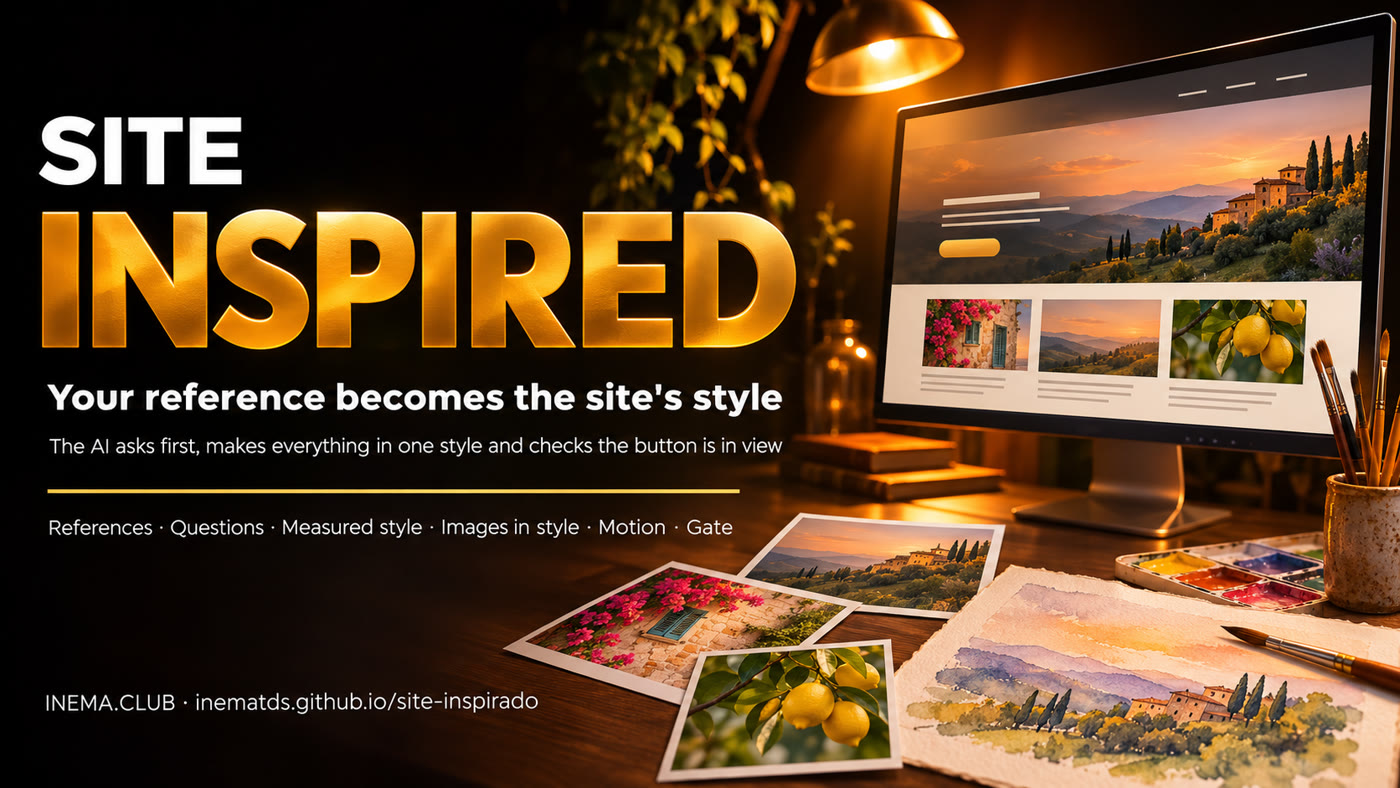
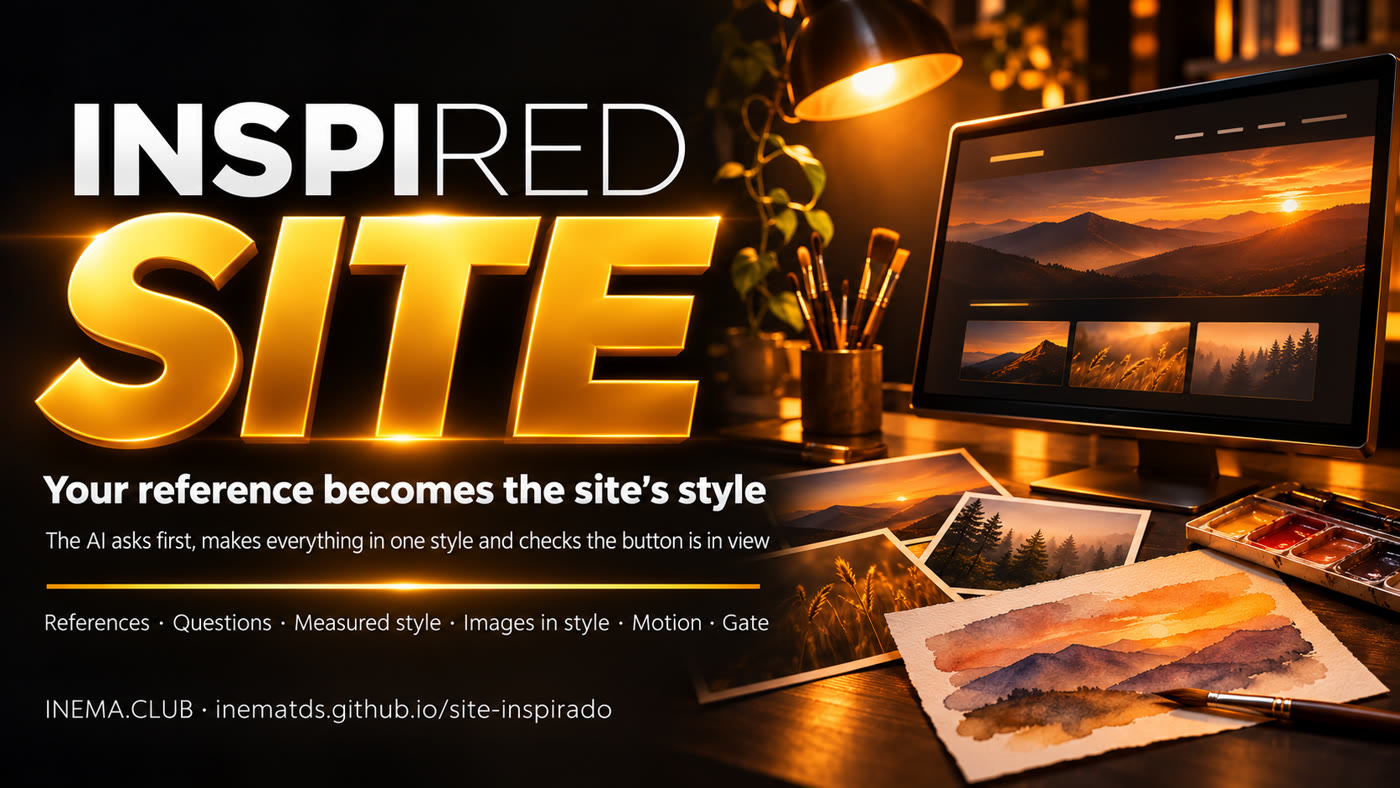
site-inspirado v1: imagens pelo Codex, pilotos completos, guia PT/EN/ES, Pages

diff --git a/pilotos/padaria/index.html b/pilotos/padaria/index.html
@@ -95,6 +95,8 @@
   @media (max-width:760px){
     .barra{display:flex;position:fixed;left:12px;right:12px;bottom:12px;z-index:40}
     .barra .btn{flex:1;justify-content:center;box-shadow:0 10px 30px rgba(0,0,0,.5)}
+    .barra{transition:opacity .25s,transform .25s}
+    .barra.fora{opacity:0;transform:translateY(20px);pointer-events:none}
     footer{padding-bottom:96px!important}
   }
   footer{padding:40px 0;text-align:center;font-size:14px;color:var(--creme2);border-top:1px solid var(--linha)}
@@ -190,5 +192,13 @@
 </footer>
 
 <script src="../../skill/site-inspirado/runtime/movimento.js"></script>
+<script>
+  // a barra fixa só aparece quando o botão do topo sai da tela (nunca dois botões iguais à vista)
+  (function(){
+    var topo=document.querySelector('.hero [data-cta]'), barra=document.querySelector('.barra');
+    if(!topo||!barra||!('IntersectionObserver' in window)) return;
+    new IntersectionObserver(function(e){ barra.classList.toggle('fora', e[0].isIntersecting); }).observe(topo);
+  })();
+</script>
 </body>
 </html>

diff --git a/README.es.md b/README.es.md
@@ -1,8 +1,16 @@
 # site-inspirado
 
+[![site-inspirado](guia/assets/banner-es.jpg)](https://inematds.github.io/site-inspirado/guia/es/)
+
+**🇧🇷 [Português](README.md) · 🇺🇸 [English](README.en.md) · 🇪🇸 [Español](README.es.md)**
+
+## Qué es
+
+site-inspirado es un kit con una skill para Claude Code que crea sitios que no parecen «hechos por IA». Entregas imágenes de referencia (de Pinterest, de la invitación ya impresa o de la foto de la tienda) y la IA hace preguntas e investiga antes de generar cualquier cosa. Después mide el estilo de esas imágenes, genera las imágenes del sitio con ese mismo estilo mediante Codex y arma la página con transiciones. Al final, una prueba automática comprueba si aparece el botón principal y si la página funciona en el celular. Para usarlo, necesitas Claude Code, Codex con tu suscripción iniciada, Python y Node.
+
 **Un sitio que no parece “hecho por IA”.** Entregas de 2 a 5 imágenes de referencia (de Pinterest, la invitación que ya imprimiste o una foto de la tienda). La IA pregunta e investiga antes de generar. Todas las imágenes siguen el mismo estilo de las referencias, la página incorpora transiciones en código y una prueba comprueba si el visitante todavía encuentra el botón antes de publicar.
 
-[Guía completa](https://inematds.github.io/site-inspirado/guia/es/) · Português: [README.md](README.md) · English: [README.en.md](README.en.md)
+[Guía completa](https://inematds.github.io/site-inspirado/guia/es/)
 
 Pilotos en línea:
 - **Evento** (visual, boda ficticia en acuarela): https://inematds.github.io/site-inspirado/pilotos/evento/

diff --git a/README.en.md b/README.en.md
@@ -1,11 +1,19 @@
 # site-inspirado
 
+[![site-inspirado](guia/assets/banner-en.jpg)](https://inematds.github.io/site-inspirado/guia/en/)
+
+**🇧🇷 [Português](README.md) · 🇺🇸 [English](README.en.md) · 🇪🇸 [Español](README.es.md)**
+
+## What it is
+
+site-inspirado is a kit with a skill for Claude Code that creates websites that don’t look “AI-made.” You provide reference images (from Pinterest, a printed invitation, or a photo of your shop), and AI asks questions and researches before generating anything. Then it measures the style of those images, generates website images in the same style through Codex, and builds the page with transitions. Finally, an automated test checks whether the main button is visible and whether the page works on mobile. To use it, you need Claude Code, Codex signed in with your subscription, Python, and Node.
+
 **A website that doesn’t look “AI-made.”** You provide 2 to 5 reference images (Pinterest, an
 invitation you’ve already printed, a photo of the shop). The AI asks questions and researches before generating. All images
 match the style of the references, the page gets code-based transitions, and a gate checks that
 visitors can still find the button before you publish.
 
-[Complete guide](https://inematds.github.io/site-inspirado/guia/en/) · Português: [README.md](README.md) · Español: [README.es.md](README.es.md)
+[Complete guide](https://inematds.github.io/site-inspirado/guia/en/)
 
 Live pilots:
 - **Event** (visual, fictional watercolor wedding): https://inematds.github.io/site-inspirado/pilotos/evento/

diff --git a/README.md b/README.md
@@ -1,11 +1,19 @@
 # site-inspirado
 
+[![site-inspirado](guia/assets/banner.jpg)](https://inematds.github.io/site-inspirado/guia/)
+
+**🇧🇷 [Português](README.md) · 🇺🇸 [English](README.en.md) · 🇪🇸 [Español](README.es.md)**
+
+## O que é
+
+O site-inspirado é um kit com uma skill para o Claude Code que cria sites que não têm cara de "feitos por IA". Você entrega imagens de referência (do Pinterest, do convite já impresso, da foto da loja) e a IA faz perguntas e pesquisa antes de gerar qualquer coisa. Depois ela mede o estilo dessas imagens, gera as imagens do site no mesmo estilo pelo Codex e monta a página com transições. No fim, um teste automático confere se o botão principal aparece e se a página funciona no celular. Para usar, você precisa do Claude Code, do Codex logado na sua assinatura, de Python e de Node.
+
 **Site que não tem cara de "feito por IA".** Você entrega 2 a 5 imagens de referência (Pinterest, o
 convite que já imprimiu, a foto da loja). A IA pergunta e pesquisa antes de gerar. Todas as imagens
 saem no mesmo estilo das referências, a página ganha transições em código, e um portão confere se o
 visitante ainda acha o botão antes de publicar.
 
-[Guia completo](https://inematds.github.io/site-inspirado/guia/) · English: [README.en.md](README.en.md) · Español: [README.es.md](README.es.md)
+[Guia completo](https://inematds.github.io/site-inspirado/guia/)
 
 Pilotos no ar:
 - **Evento** (visual, casamento fictício em aquarela): https://inematds.github.io/site-inspirado/pilotos/evento/
